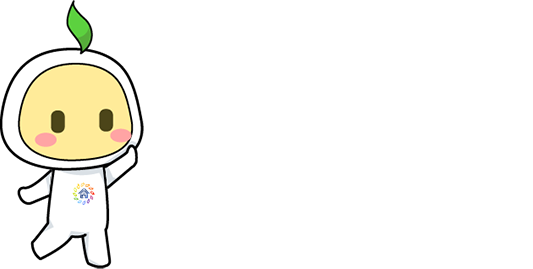
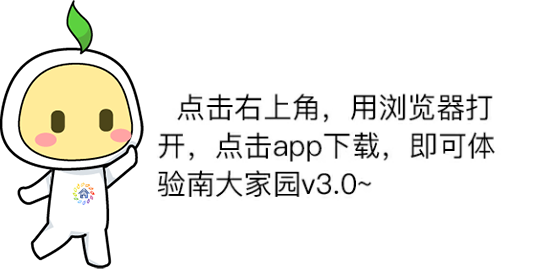
修复微信文字不显示问题

diff --git a/views/guide.html b/views/guide.html
@@ -148,7 +148,7 @@
   </div>
   <div class="mengban-weixin" id="mengban-weixin">
     <div id="close-btn-weixin"></div>
-    <div class="data-image" id="word-content-weixin" data-src="./images/word-content-weixin.png"><div id="wx-container">&nbsp;&nbsp;点击右上角，用浏览器打开，即可下载专属南大学子的南大家园APP~</div></div>
+    <div class="data-image" id="word-content-weixin" data-src="./images/word-content-weixin.png"></div>
     <div class="data-image" id="arrow-weixin" data-src="./images/arrow-weixin.png"></div>
   </div>
 </body>

diff --git a/public/stylesheets/guide.css b/public/stylesheets/guide.css
@@ -371,16 +371,6 @@ body {
   position: fixed;
   top: 29%;
   left: 9%;
-  font-size: 0.44rem;
-  font-weight: 700;
-  line-height: 0.7rem;
-}
-
-#wx-container {
-  width: 5rem;
-  height: 2.8rem;
-  margin-left: 2.4rem;
-  margin-top: 1.2rem;
 }
 
 #arrow-weixin{
